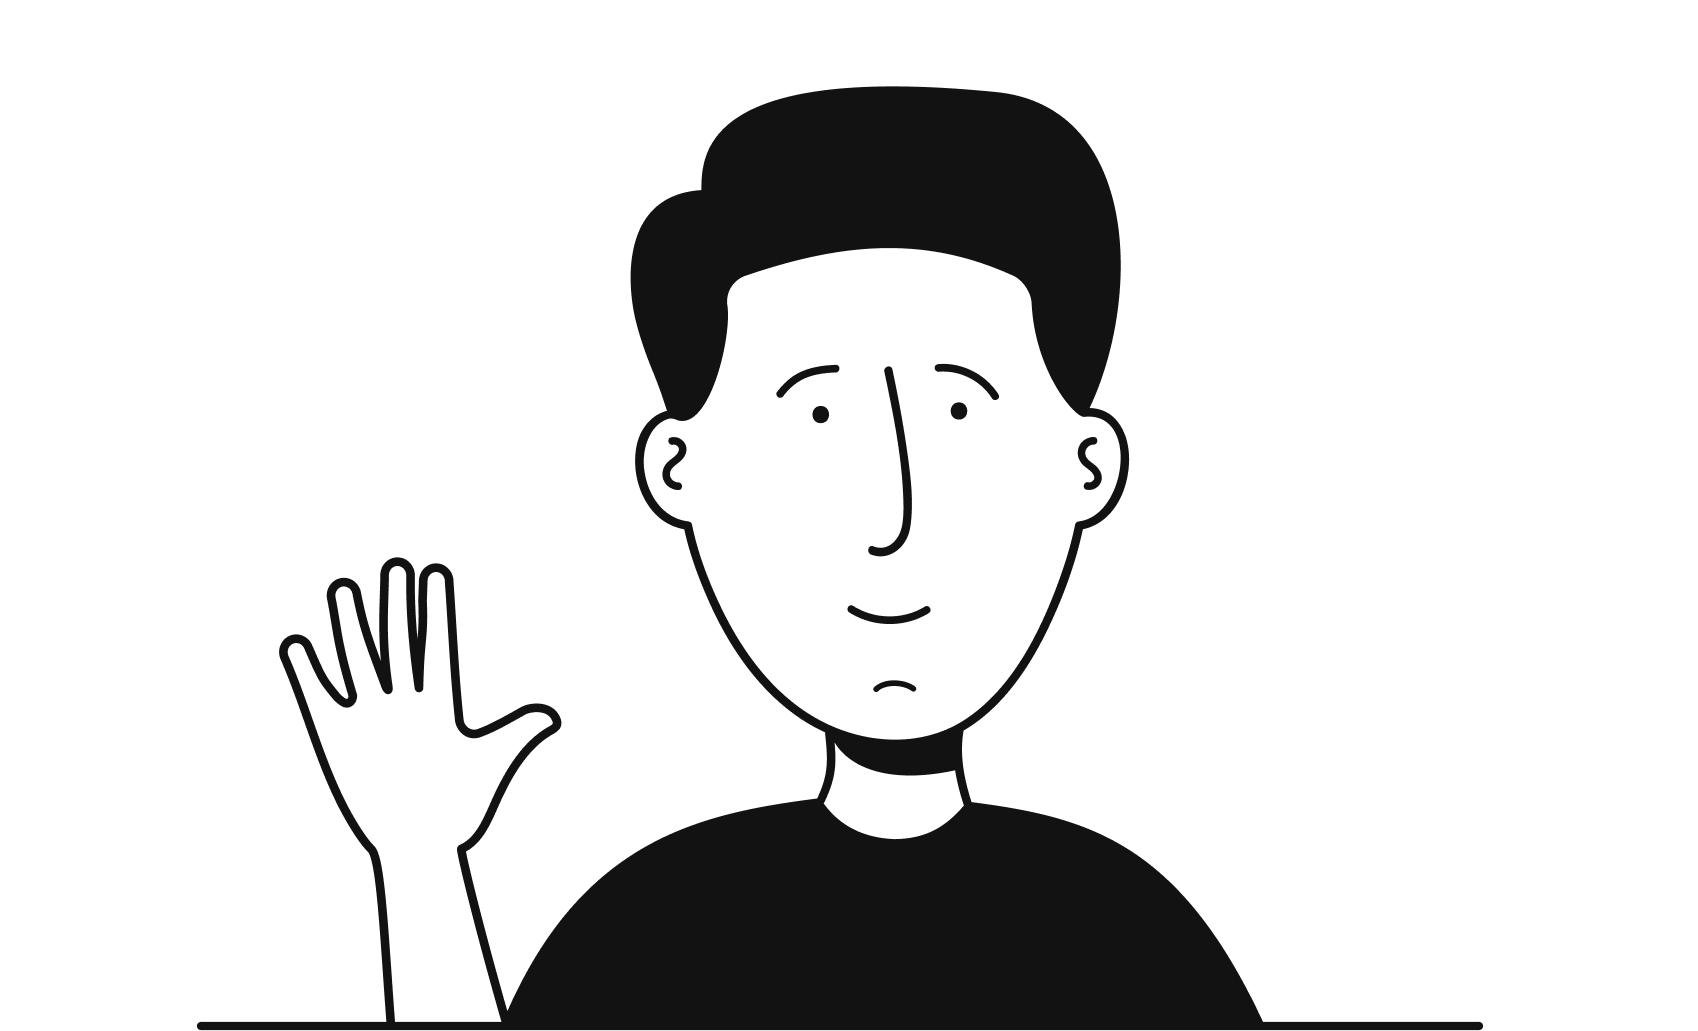
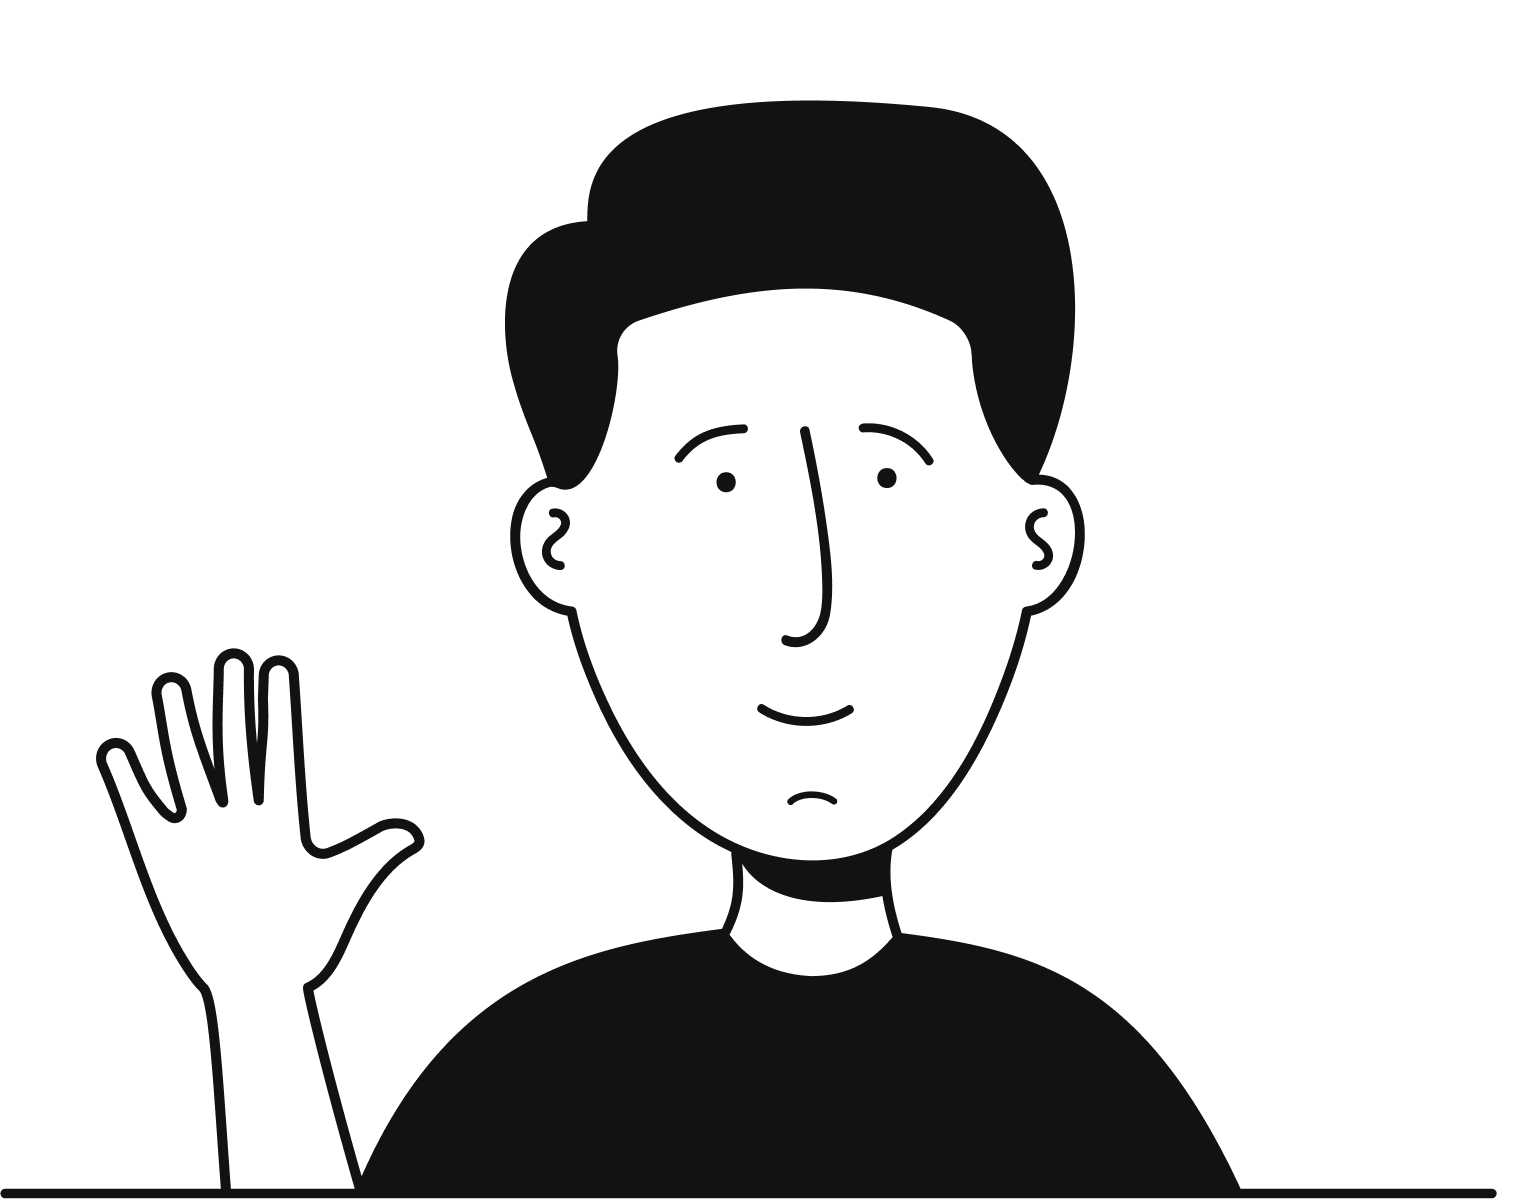
18.8

diff --git a/styles.css b/styles.css
@@ -1070,7 +1070,7 @@ footer {
 
     .illustration3 {
         position: relative;
-        width: 130%;
+        width: 100%;
         margin-top: 1em;
         margin-bottom: 8em;
     }
